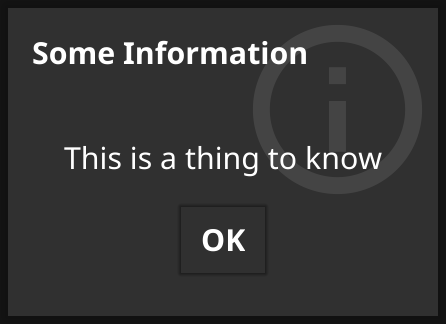
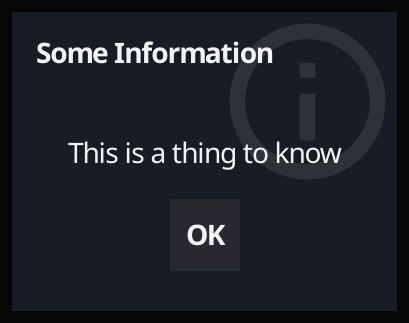
Generate latest dialogs and layout images
Update them a little to fit better in the site style

diff --git a/_gen/genlayouts.go b/_gen/genlayouts.go
@@ -99,13 +99,41 @@ func main() {
 	pwd, _ := os.Getwd()
 	imgDir = filepath.Join(pwd, "..", "images", "layouts")
 
-	fyne.CurrentApp().Settings().SetTheme(theme.LightTheme())
+	fyne.CurrentApp().Settings().SetTheme(transparentBGTheme(theme.LightTheme()))
 	for _, item := range makeDrawList() {
 		draw(item.lay, item.name, c, "light")
 	}
 
-	fyne.CurrentApp().Settings().SetTheme(theme.DarkTheme())
+	fyne.CurrentApp().Settings().SetTheme(transparentBGTheme(theme.DarkTheme()))
 	for _, item := range makeDrawList() {
 		draw(item.lay, item.name, c, "dark")
 	}
+}
+
+type transparent struct {
+	th fyne.Theme
+}
+
+func transparentBGTheme(th fyne.Theme) fyne.Theme {
+	return &transparent{th: th}
+}
+
+func (t *transparent) Color(n fyne.ThemeColorName, v fyne.ThemeVariant) color.Color {
+	if n == theme.ColorNameBackground {
+		return color.Transparent
+	}
+
+	return t.th.Color(n, v)
+}
+
+func (t *transparent) Font(s fyne.TextStyle) fyne.Resource {
+	return t.th.Font(s)
+}
+
+func (t *transparent) Icon(n fyne.ThemeIconName) fyne.Resource {
+	return t.th.Icon(n)
+}
+
+func (t *transparent) Size(n fyne.ThemeSizeName) float32 {
+	return t.th.Size(n)
 }

diff --git a/_gen/gendialogs.go b/_gen/gendialogs.go
@@ -30,7 +30,8 @@ func makeDrawList() []drawItem {
 			dialog.ShowColorPicker("Choose a color", "Please pick a color...", func(color.Color) {}, w)
 		}},
 		{"confirm", func(w fyne.Window) { dialog.ShowConfirm("Please Confirm", "Are you sure..?", func(bool) {}, w) }},
-		{"fileopen", func(w fyne.Window) { dialog.ShowFileOpen(func(fyne.URIReadCloser, error) {}, w) }},
+		{"fileopen", func(w fyne.Window) {
+			dialog.ShowFileOpen(func(fyne.URIReadCloser, error) {}, w)}},
 		{"form", func(w fyne.Window) {
 			dialog.ShowForm("Form Input", "Enter", "Cancel",
 				[]*widget.FormItem{widget.NewFormItem("Enter a string...", widget.NewEntry())}, func(bool) {}, w)
@@ -64,8 +65,8 @@ func draw(scene func(fyne.Window), name string, w fyne.Window, c test.Windowless
 	c.SetContent(canvas.NewRectangle(theme.BackgroundColor()))
 	scene(w)
 	if name == "fileopen" {
-		w.Resize(fyne.NewSize(420, 320))
-		c.Overlays().Top().Resize(fyne.NewSize(412, 312))
+		w.Resize(fyne.NewSize(440, 320))
+		c.Overlays().Top().Resize(fyne.NewSize(432, 312))
 	} else {
 		min := c.Overlays().Top().MinSize()
 		w.Resize(min.Add(fyne.NewSize(theme.Padding()*2, theme.Padding()*2)))
